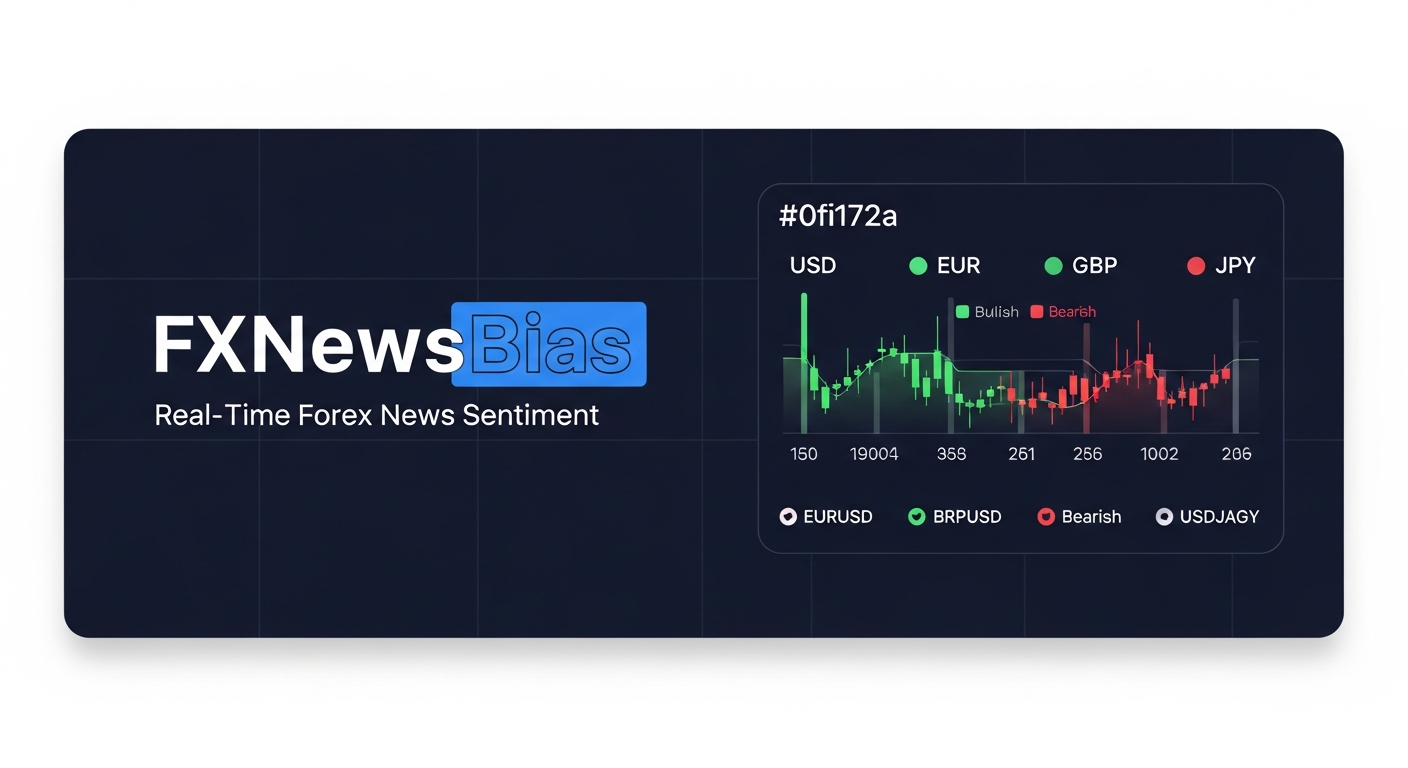
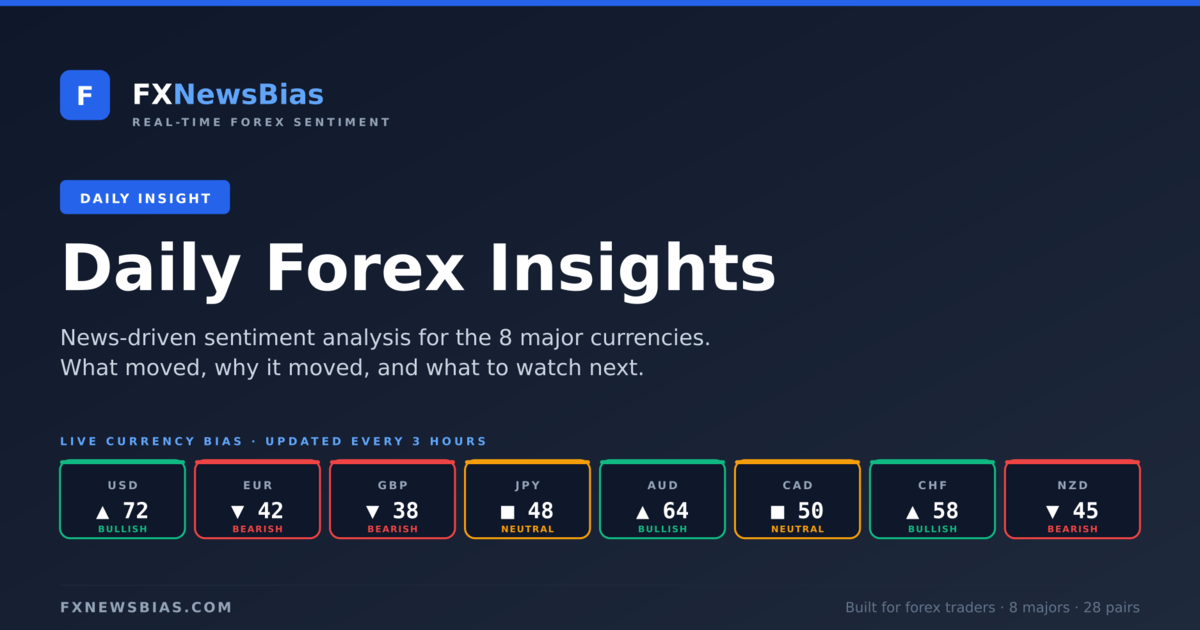
Replace fake-chart OG image with clean branded design
- New OG image: dark navy gradient, FXNewsBias branding, DAILY INSIGHT tag, headline, 8-currency bias strip, no fake stock chart
- Strip date suffix from og:title and twitter:title meta (cleaner social cards)
- Keep date in H1 page title for SEO
- Update bottom strip copy: removed any leftover signup mention

diff --git a/insight/2026-05-13-usd-strengthens-bullish-sentiment.html b/insight/2026-05-13-usd-strengthens-bullish-sentiment.html
@@ -1,10 +1,10 @@
 <!DOCTYPE html>
 <html lang="en"><head><meta charset="UTF-8"><meta name="viewport" content="width=device-width, initial-scale=1.0">
 <link rel="apple-touch-icon" sizes="180x180" href="/apple-touch-icon.png"><link rel="icon" type="image/png" sizes="32x32" href="/favicon-32x32.png"><link rel="icon" type="image/png" sizes="16x16" href="/favicon-16x16.png"><link rel="icon" href="/favicon.ico"><link rel="preconnect" href="https://fonts.gstatic.com" crossorigin><link rel="preconnect" href="https://vtbmtxtgtdprpbilragm.supabase.co" crossorigin><link rel="manifest" href="/site.webmanifest"><meta name="theme-color" content="#0f172a"><link rel="preload" href="https://fonts.googleapis.com/css2?family=Inter:wght@400;500;600;700;800&family=JetBrains+Mono:wght@400;600&display=swap" as="style" onload="this.onload=null;this.rel='stylesheet'"><noscript><link href="https://fonts.googleapis.com/css2?family=Inter:wght@400;500;600;700;800&family=JetBrains+Mono:wght@400;600&display=swap" rel="stylesheet"></noscript>
-<title>US Dollar Strengthens as Bullish News Flow Builds — Wed, 13 May 2026 | FXNewsBias</title><meta name="description" content="US Dollar (USD) leads forex sentiment today with a strong bullish reading. Here is what drove the move and what to watch next."><meta name="robots" content="index, follow"><meta name="author" content="FXNewsBias Team"><link rel="canonical" href="https://fxnewsbias.com/insight/2026-05-13-usd-strengthens-bullish-sentiment">
-<meta property="og:type" content="article"><meta property="og:title" content="US Dollar Strengthens as Bullish News Flow Builds — Wed, 13 May 2026"><meta property="og:description" content="US Dollar (USD) leads forex sentiment today with a strong bullish reading. Here is what drove the move and what to watch next."><meta property="og:url" content="https://fxnewsbias.com/insight/2026-05-13-usd-strengthens-bullish-sentiment"><meta property="og:image" content="https://fxnewsbias.com/og-image.png"><meta property="og:site_name" content="FXNewsBias">
-<meta property="article:published_time" content="2026-05-13T07:30:09.301Z"><meta property="article:author" content="FXNewsBias Team"><meta property="article:section" content="Forex Analysis">
-<meta name="twitter:card" content="summary_large_image"><meta name="twitter:title" content="US Dollar Strengthens as Bullish News Flow Builds — Wed, 13 May 2026"><meta name="twitter:description" content="US Dollar (USD) leads forex sentiment today with a strong bullish reading. Here is what drove the move and what to watch next."><meta name="twitter:image" content="https://fxnewsbias.com/og-image.png">
+<title>US Dollar Strengthens as Bullish News Flow Builds | FXNewsBias</title><meta name="description" content="US Dollar (USD) leads forex sentiment today with a strong bullish reading. Here is what drove the move and what to watch next."><meta name="robots" content="index, follow"><meta name="author" content="FXNewsBias Team"><link rel="canonical" href="https://fxnewsbias.com/insight/2026-05-13-usd-strengthens-bullish-sentiment">
+<meta property="og:type" content="article"><meta property="og:title" content="US Dollar Strengthens as Bullish News Flow Builds"><meta property="og:description" content="US Dollar (USD) leads forex sentiment today with a strong bullish reading. Here is what drove the move and what to watch next."><meta property="og:url" content="https://fxnewsbias.com/insight/2026-05-13-usd-strengthens-bullish-sentiment"><meta property="og:image" content="https://fxnewsbias.com/og-image.png"><meta property="og:site_name" content="FXNewsBias">
+<meta property="article:published_time" content="2026-05-13T07:41:12.396Z"><meta property="article:author" content="FXNewsBias Team"><meta property="article:section" content="Forex Analysis">
+<meta name="twitter:card" content="summary_large_image"><meta name="twitter:title" content="US Dollar Strengthens as Bullish News Flow Builds"><meta name="twitter:description" content="US Dollar (USD) leads forex sentiment today with a strong bullish reading. Here is what drove the move and what to watch next."><meta name="twitter:image" content="https://fxnewsbias.com/og-image.png">
 <style>*{margin:0;padding:0;box-sizing:border-box;}body{font-family:'Inter',-apple-system,sans-serif;background:#fff;color:#1a1a1a;line-height:1.5;}:root{--bg:#fff;--bg-soft:#f8f9fa;--border:#e5e7eb;--text:#1a1a1a;--text-soft:#6b7280;--text-muted:#9ca3af;--accent:#2563eb;--bull:#10b981;--bear:#ef4444;--neutral:#f59e0b;}a{color:var(--accent);text-decoration:none;}a:hover{text-decoration:underline;}
 .topbar{background:#0f172a;color:#fff;padding:6px 0;font-size:12px;}.topbar-inner{max-width:1280px;margin:0 auto;padding:0 20px;display:flex;justify-content:space-between;align-items:center;}.topbar-left,.topbar-right{display:flex;gap:14px;color:#94a3b8;}.topbar a{color:#94a3b8;text-decoration:none;}.topbar a:hover{color:#fff;}
 .page-head{background:linear-gradient(135deg,#0f172a,#1e293b);color:#fff;padding:32px 0;}.page-head-inner{max-width:1280px;margin:0 auto;padding:0 20px;}.crumb{font-size:13px;color:#94a3b8;margin-bottom:10px;}.crumb a{color:#94a3b8;text-decoration:none;}
@@ -50,7 +50,7 @@
 .side-link{display:block;padding:10px 0;border-bottom:1px solid var(--border);color:#1a1a1a;font-size:14px;font-weight:600;line-height:1.4;}.side-link:last-child{border-bottom:none;}.side-link:hover{color:var(--accent);text-decoration:none;}
 .share-row{display:flex;gap:8px;flex-wrap:wrap;margin-top:8px;}.share-btn{flex:1;text-align:center;padding:8px;background:#f8f9fa;border:1px solid var(--border);border-radius:6px;color:#1a1a1a;font-size:12px;font-weight:600;}.share-btn:hover{background:var(--accent);color:#fff;text-decoration:none;border-color:var(--accent);}
 footer{background:#0f172a;color:#94a3b8;padding:32px 20px 20px;margin-top:40px;}.footer-inner{max-width:1280px;margin:0 auto;}.footer-bottom{text-align:center;font-size:12px;padding-top:16px;border-top:1px solid #1e293b;color:#64748b;}.footer-bottom a{color:#94a3b8;}</style>
-<script type="application/ld+json">{"@context":"https://schema.org","@type":"NewsArticle","headline":"US Dollar Strengthens as Bullish News Flow Builds — Wed, 13 May 2026","description":"US Dollar (USD) leads forex sentiment today with a strong bullish reading. Here is what drove the move and what to watch next.","datePublished":"2026-05-13T07:30:09.301Z","dateModified":"2026-05-13T07:30:09.301Z","author":{"@type":"Organization","name":"FXNewsBias Team","url":"https://fxnewsbias.com"},"publisher":{"@type":"Organization","name":"FXNewsBias","logo":{"@type":"ImageObject","url":"https://fxnewsbias.com/logo-fxnb.png"}},"mainEntityOfPage":{"@type":"WebPage","@id":"https://fxnewsbias.com/insight/2026-05-13-usd-strengthens-bullish-sentiment"},"image":"https://fxnewsbias.com/og-image.png","articleSection":"Forex Analysis"}</script>
+<script type="application/ld+json">{"@context":"https://schema.org","@type":"NewsArticle","headline":"US Dollar Strengthens as Bullish News Flow Builds — Wed, 13 May 2026","description":"US Dollar (USD) leads forex sentiment today with a strong bullish reading. Here is what drove the move and what to watch next.","datePublished":"2026-05-13T07:41:12.396Z","dateModified":"2026-05-13T07:41:12.396Z","author":{"@type":"Organization","name":"FXNewsBias Team","url":"https://fxnewsbias.com"},"publisher":{"@type":"Organization","name":"FXNewsBias","logo":{"@type":"ImageObject","url":"https://fxnewsbias.com/logo-fxnb.png"}},"mainEntityOfPage":{"@type":"WebPage","@id":"https://fxnewsbias.com/insight/2026-05-13-usd-strengthens-bullish-sentiment"},"image":"https://fxnewsbias.com/og-image.png","articleSection":"Forex Analysis"}</script>
 <script src="/nav.js" defer></script><script src="/cookie.js" defer></script><script src="/analytics.js" defer></script>
 </head><body>
 <div class="topbar"><div class="topbar-inner"><div class="topbar-left"><span>📅 Wed, 13 May 2026</span></div><div class="topbar-right"><a href="/insight/">Daily Insights</a><a href="/news">News</a></div></div></div>

diff --git a/cf/cron_worker.js b/cf/cron_worker.js
@@ -2212,7 +2212,7 @@ function _insBuildNarrative({sentiment, news, biggestMover}){
 
 function _insRenderArticle({headline, slug, summary, sentiment, news, biggestMover, dateISO, dateLabel, category}){
   const url = `${_INS_SITE}/insight/${slug}`;
-  const h = _insEsc(headline), s = _insEsc(summary);
+  const shortHeadline = String(headline).split(" — ")[0]; const h = _insEsc(headline), hShort = _insEsc(shortHeadline), s = _insEsc(summary);
   const N = _insBuildNarrative({sentiment, news, biggestMover});
   const sidebarCcys = _INS_CCY_ORDER.slice(0,5).map(c=>{const x=sentiment[c];if(!x)return '';return `<a class="side-link" href="/currencies"><span style="color:${_insBiasColor(x.bias)};font-weight:700;">${_insBiasArrow(x.bias)} ${c}</span> · <span style="color:#6b7280;font-weight:500;">${x.bias} ${x.score}/100</span></a>`;}).join('');
   const ld = JSON.stringify({"@context":"https://schema.org","@type":"NewsArticle","headline":headline,"description":summary,"datePublished":dateISO,"dateModified":dateISO,"author":{"@type":"Organization","name":"FXNewsBias Team","url":_INS_SITE},"publisher":{"@type":"Organization","name":"FXNewsBias","logo":{"@type":"ImageObject","url":`${_INS_SITE}/logo-fxnb.png`}},"mainEntityOfPage":{"@type":"WebPage","@id":url},"image":`${_INS_SITE}/og-image.png`,"articleSection":"Forex Analysis"});
@@ -2222,10 +2222,10 @@ function _insRenderArticle({headline, slug, summary, sentiment, news, biggestMov
 <html lang="en"><head><meta charset="UTF-8"><meta name="viewport" content="width=device-width, initial-scale=1.0">
 <link rel="apple-touch-icon" sizes="180x180" href="/apple-touch-icon.png"><link rel="icon" type="image/png" sizes="32x32" href="/favicon-32x32.png"><link rel="icon" type="image/png" sizes="16x16" href="/favicon-16x16.png"><link rel="icon" href="/favicon.ico"><link rel="preconnect" href="https://fonts.gstatic.com" crossorigin><link rel="preconnect" href="https://vtbmtxtgtdprpbilragm.supabase.co" crossorigin><link rel="manifest" href="/site.webmanifest"><meta name="theme-color" content="#0f172a">
 <link rel="preload" href="https://fonts.googleapis.com/css2?family=Inter:wght@400;500;600;700;800&family=JetBrains+Mono:wght@400;600&display=swap" as="style" onload="this.onload=null;this.rel='stylesheet'"><noscript><link href="https://fonts.googleapis.com/css2?family=Inter:wght@400;500;600;700;800&family=JetBrains+Mono:wght@400;600&display=swap" rel="stylesheet"></noscript>
-<title>${h} | FXNewsBias</title><meta name="description" content="${s}"><meta name="robots" content="index, follow"><meta name="author" content="FXNewsBias Team"><link rel="canonical" href="${url}">
-<meta property="og:type" content="article"><meta property="og:title" content="${h}"><meta property="og:description" content="${s}"><meta property="og:url" content="${url}"><meta property="og:image" content="${_INS_SITE}/og-image.png"><meta property="og:site_name" content="FXNewsBias">
+<title>${hShort} | FXNewsBias</title><meta name="description" content="${s}"><meta name="robots" content="index, follow"><meta name="author" content="FXNewsBias Team"><link rel="canonical" href="${url}">
+<meta property="og:type" content="article"><meta property="og:title" content="${hShort}"><meta property="og:description" content="${s}"><meta property="og:url" content="${url}"><meta property="og:image" content="${_INS_SITE}/og-image.png"><meta property="og:site_name" content="FXNewsBias">
 <meta property="article:published_time" content="${dateISO}"><meta property="article:author" content="FXNewsBias Team"><meta property="article:section" content="Forex Analysis">
-<meta name="twitter:card" content="summary_large_image"><meta name="twitter:title" content="${h}"><meta name="twitter:description" content="${s}"><meta name="twitter:image" content="${_INS_SITE}/og-image.png">
+<meta name="twitter:card" content="summary_large_image"><meta name="twitter:title" content="${hShort}"><meta name="twitter:description" content="${s}"><meta name="twitter:image" content="${_INS_SITE}/og-image.png">
 <style>*{margin:0;padding:0;box-sizing:border-box;}body{font-family:'Inter',-apple-system,sans-serif;background:#fff;color:#1a1a1a;line-height:1.5;}:root{--bg:#fff;--bg-soft:#f8f9fa;--border:#e5e7eb;--text:#1a1a1a;--text-soft:#6b7280;--text-muted:#9ca3af;--accent:#2563eb;--bull:#10b981;--bear:#ef4444;--neutral:#f59e0b;}a{color:var(--accent);text-decoration:none;}a:hover{text-decoration:underline;}
 .topbar{background:#0f172a;color:#fff;padding:6px 0;font-size:12px;}.topbar-inner{max-width:1280px;margin:0 auto;padding:0 20px;display:flex;justify-content:space-between;align-items:center;}.topbar-left,.topbar-right{display:flex;gap:14px;color:#94a3b8;}.topbar a{color:#94a3b8;text-decoration:none;}.topbar a:hover{color:#fff;}
 .page-head{background:linear-gradient(135deg,#0f172a,#1e293b);color:#fff;padding:32px 0;}.page-head-inner{max-width:1280px;margin:0 auto;padding:0 20px;}.crumb{font-size:13px;color:#94a3b8;margin-bottom:10px;}.crumb a{color:#94a3b8;text-decoration:none;}
